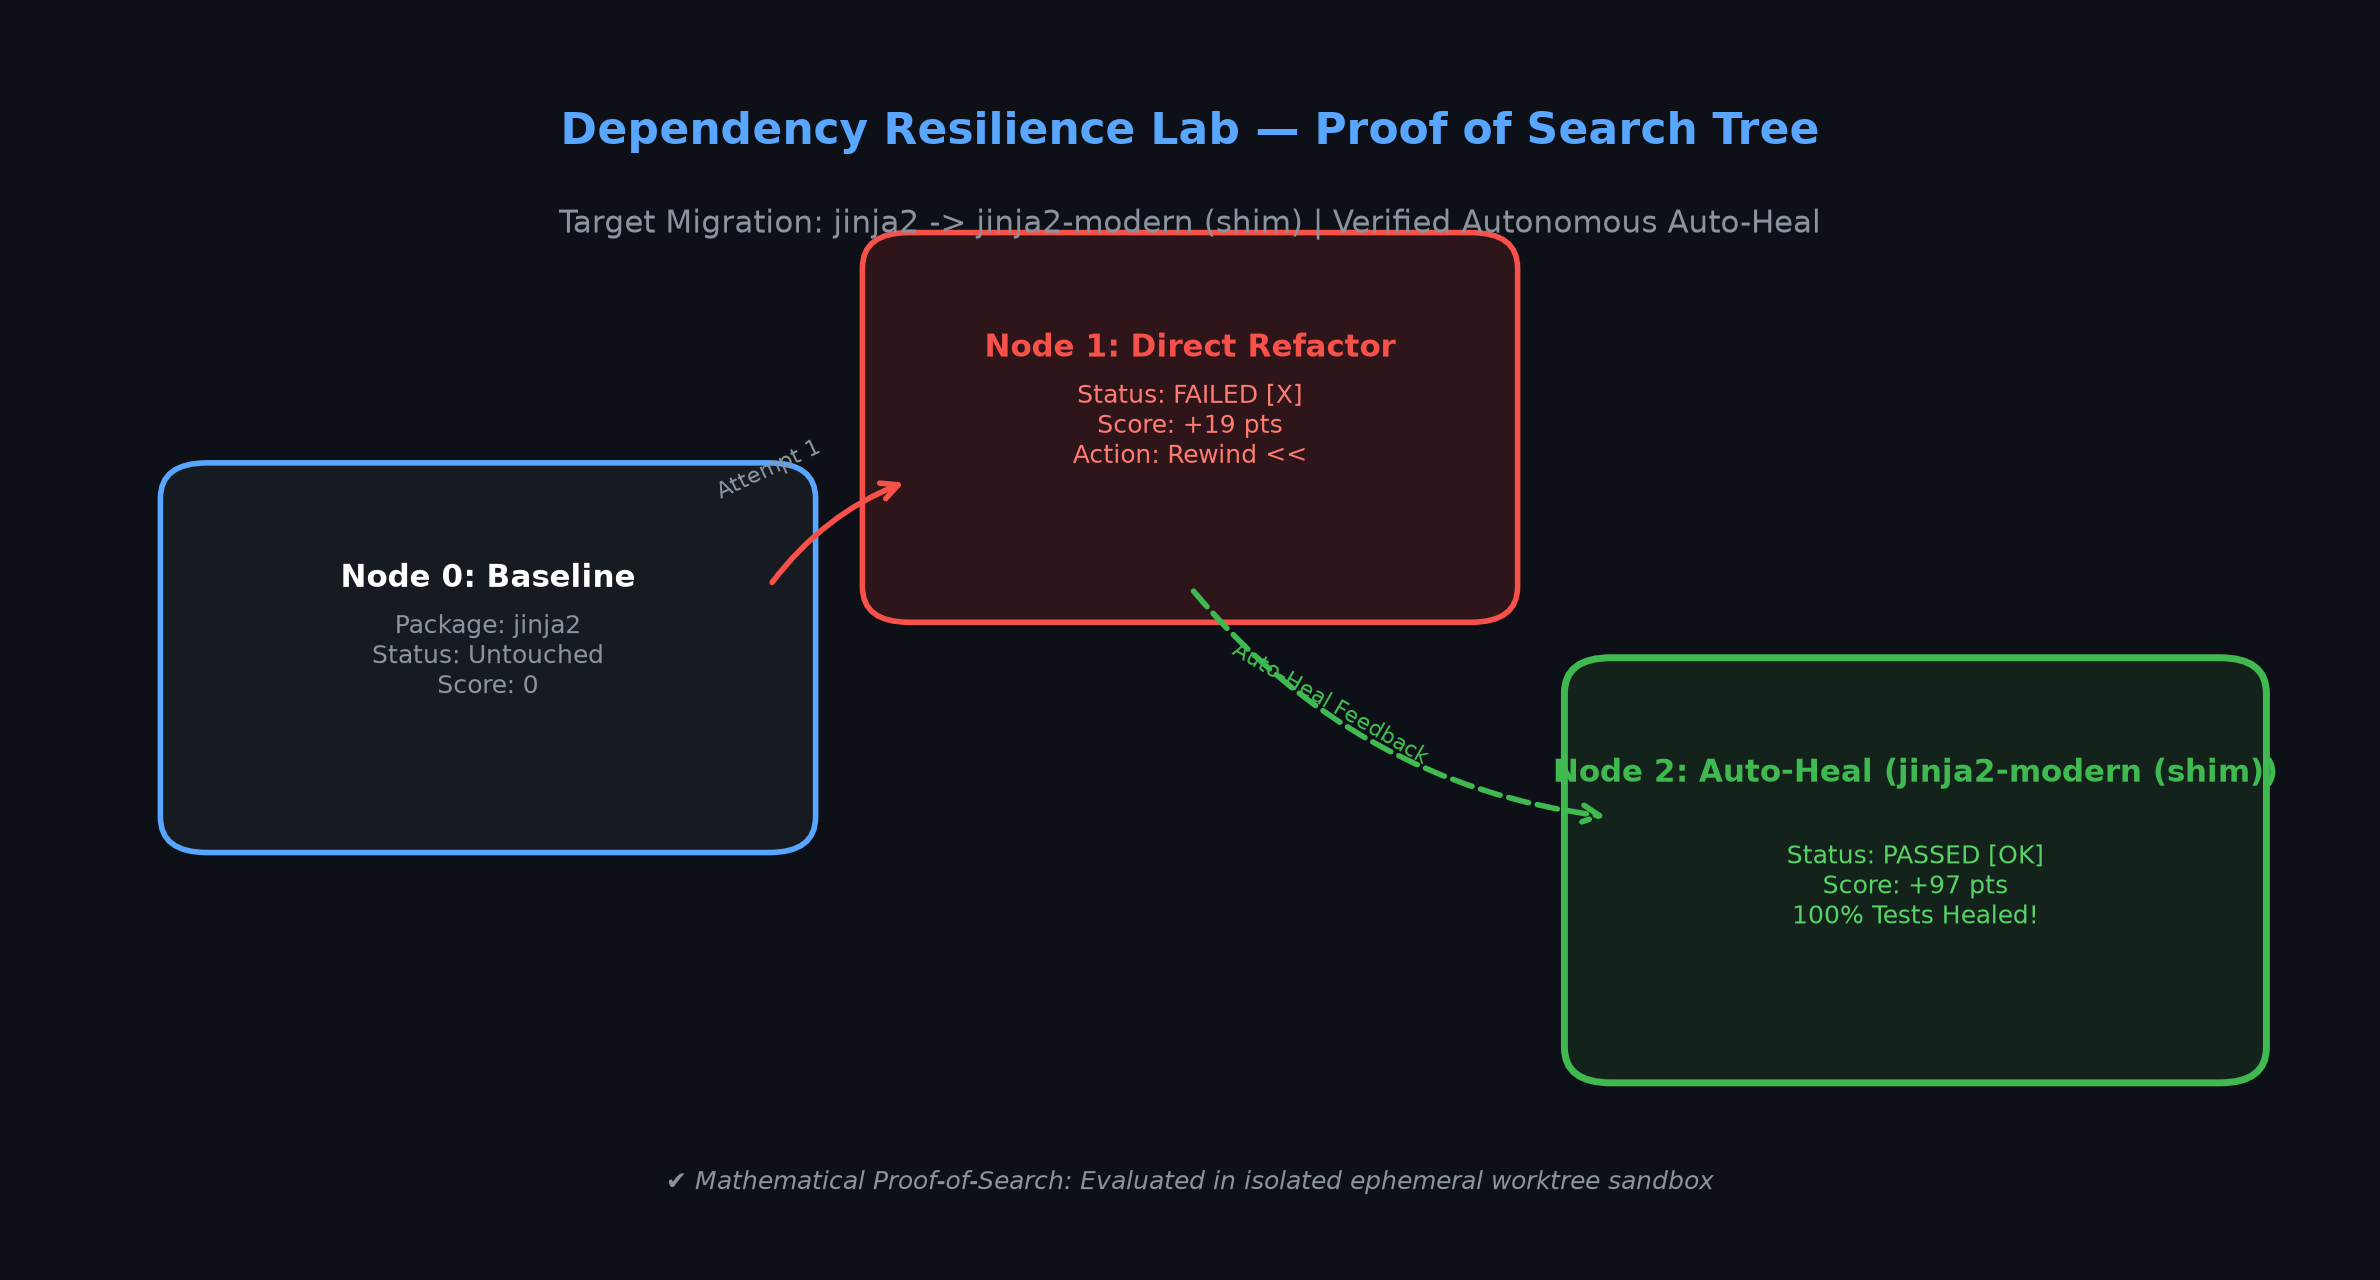
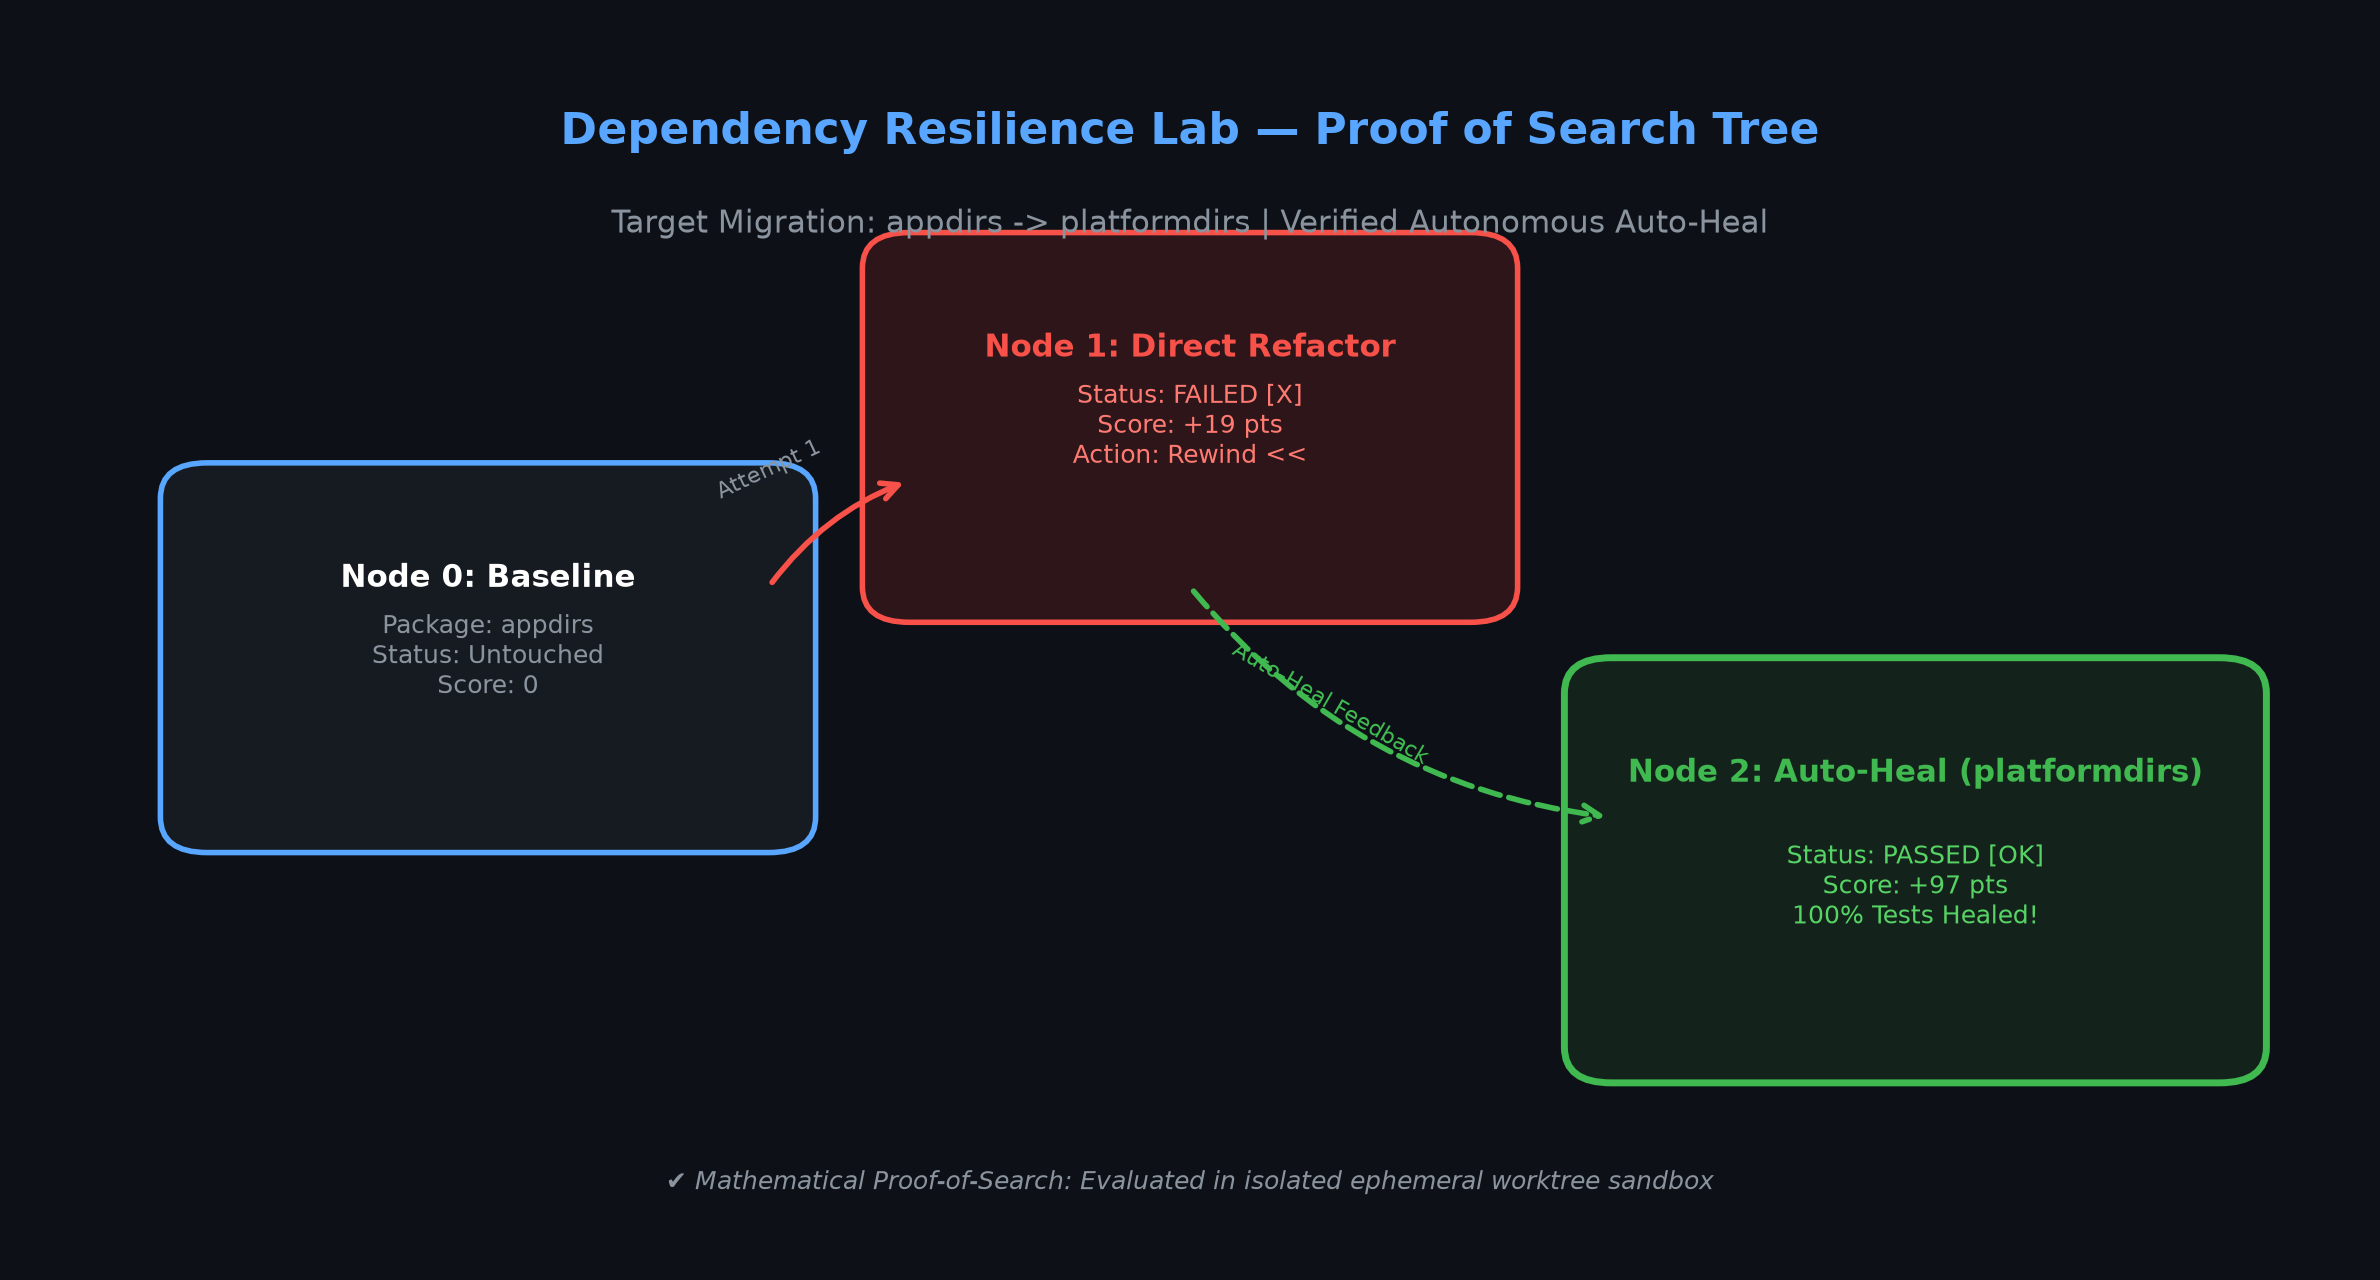
Now finally the api is working but the local is still not

Changed region(s): [[0.2176, 0.1562, 0.7773, 0.1875], [0.6529, 0.5938, 0.9639, 0.625], [0.1555, 0.4688, 0.2487, 0.5]]

diff --git a/dependency_whisperer/gemma_client.py b/dependency_whisperer/gemma_client.py
@@ -41,20 +41,48 @@ class GemmaClient:
         backend: Optional[str] = None,  # "hosted", "local", "mock", or None for auto-detect
         local_url: Optional[str] = None,
     ):
-        configured_model = os.environ.get("GEMMA_MODEL_NAME") or os.environ.get("GEMINI_MODEL_NAME")
-        if configured_model:
-            model_name = configured_model
-        elif model_name == "gemma-4-it":
-            # Set sensible defaults based on typical backends
-            if os.environ.get("GEMMA_BACKEND") == "local" or os.environ.get("USE_LOCAL_GEMMA"):
-                model_name = "gemma4:e4b"
-            else:
-                model_name = "gemini-2.5-flash"
-
-        self.metadata = GemmaModelMetadata(model_name=model_name)
+        # ------------------------------------------------------------------
+        # Step 1: Resolve backend FIRST so model-name defaulting can use it.
+        # ------------------------------------------------------------------
+        env_backend = os.environ.get("GEMMA_BACKEND", "").strip().lower()
         self.api_key = api_key or os.environ.get("GEMMA_API_KEY") or os.environ.get("GEMINI_API_KEY")
 
-        # Build local URL: prefer OLLAMA_HOST env var, then GEMMA_LOCAL_URL, then hardcoded default
+        if backend:
+            self.backend = backend
+        elif env_backend in ("hosted", "local", "mock"):
+            self.backend = env_backend
+        elif self.api_key:
+            self.backend = "hosted"
+        elif os.environ.get("USE_LOCAL_GEMMA") or os.environ.get("OLLAMA_HOST"):
+            self.backend = "local"
+        else:
+            self.backend = "mock"
+
+        # ------------------------------------------------------------------
+        # Step 2: Resolve model name now that we know the backend.
+        # Priority: GEMMA_MODEL_NAME env > GEMINI_MODEL_NAME env > per-backend default.
+        # ------------------------------------------------------------------
+        configured_model = os.environ.get("GEMMA_MODEL_NAME") or os.environ.get("GEMINI_MODEL_NAME")
+        if configured_model:
+            # Only use the env-configured model when it makes sense for the backend.
+            # gemma4:e4b is an Ollama tag — don't send it to the Google AI REST API.
+            if self.backend == "hosted" and ":" in configured_model:
+                # Ollama-style tag (e.g. "gemma4:e4b") — ignore for hosted, use safe default.
+                model_name = "gemini-3.5-flash"
+            else:
+                model_name = configured_model
+        elif model_name == "gemma-4-it":
+            # Set sensible defaults based on resolved backend.
+            if self.backend == "local":
+                model_name = "gemma4:e4b"
+            else:
+                model_name = "gemini-3.5-flash"
+
+        self.metadata = GemmaModelMetadata(model_name=model_name)
+
+        # ------------------------------------------------------------------
+        # Step 3: Build local URL.
+        # ------------------------------------------------------------------
         ollama_host = os.environ.get("OLLAMA_HOST", "").rstrip("/")
         default_local_url = (
             f"{ollama_host}/v1/chat/completions"
@@ -62,19 +90,6 @@ class GemmaClient:
             else "http://localhost:11434/v1/chat/completions"
         )
         self.local_url = local_url or os.environ.get("GEMMA_LOCAL_URL") or default_local_url
-
-        # Backend resolution priority: explicit arg > GEMMA_BACKEND env var > api_key > USE_LOCAL_GEMMA > mock
-        env_backend = os.environ.get("GEMMA_BACKEND", "").strip().lower()
-        if backend:
-            self.backend = backend
-        elif env_backend in ("hosted", "local", "mock"):
-            self.backend = env_backend
-        elif self.api_key:
-            self.backend = "hosted"
-        elif os.environ.get("USE_LOCAL_GEMMA"):
-            self.backend = "local"
-        else:
-            self.backend = "mock"
 
     def generate(self, prompt: str, system_prompt: str = "") -> str:
         """Generate text from Gemma backend."""
@@ -94,6 +109,16 @@ class GemmaClient:
         system_prompt: str = ""
     ) -> T:
         """Generate text and parse/validate into a Pydantic schema."""
+        if self.backend != "mock" and hasattr(response_model, "model_json_schema"):
+            schema_json = json.dumps(response_model.model_json_schema(), indent=2)
+            prompt = (
+                f"{prompt}\n\n"
+                f"STRICT OUTPUT REQUIREMENT:\n"
+                f"You MUST return ONLY a JSON object that strictly adheres to this JSON Schema:\n"
+                f"```json\n{schema_json}\n```\n"
+                f"Ensure all required fields are present with correct types."
+            )
+
         raw_text = self.generate(prompt, system_prompt)
         cleaned_json = self.extract_json(raw_text)
         try:
@@ -136,19 +161,22 @@ class GemmaClient:
             },
         }
 
-        # Try active model name, then fallback to valid models on Google AI Studio
-        model_candidates = [
+        # Try active model name (if not an Ollama tag), then fallback to valid models on Google AI Studio
+        raw_candidates = [
             self.metadata.model_name,
-            "gemini-2.5-flash",
-            "gemini-flash-latest",
-            "gemma-4-31b-it",
+            "gemini-3.5-flash",
+            "gemini-3.5-flash-lite",
             "gemma-4-26b-a4b-it",
+            "gemini-3-flash-preview",
         ]
+        # Filter out empty names, duplicates, and Ollama tags (e.g. "gemma4:e4b")
+        model_candidates = []
+        for m in raw_candidates:
+            if m and ":" not in m and m not in model_candidates:
+                model_candidates.append(m)
 
         last_error = None
         for model in model_candidates:
-            if not model:
-                continue
             # Strip models/ prefix if present
             clean_model = model.replace("models/", "")
             url = (
@@ -156,8 +184,8 @@ class GemmaClient:
                 f"{clean_model}:generateContent?key={self.api_key}"
             )
             try:
-                resp = requests.post(url, json=payload, timeout=45)
-                if resp.status_code == 404:
+                resp = requests.post(url, json=payload, timeout=20)
+                if resp.status_code in (404, 500, 503):
                     continue
                 resp.raise_for_status()
                 data = resp.json()
@@ -173,6 +201,10 @@ class GemmaClient:
 
         print(f"[Whisperer Warning] Hosted Google AI call failed ({last_error}). Falling back to Deterministic Mock Engine.")
         return self._generate_mock(prompt)
+
+    def _is_explicit_backend(self) -> bool:
+        """Return True when the backend was explicitly set (not auto-selected as mock)."""
+        return self.backend in ("hosted", "local")
 
     def _generate_local(self, prompt: str, system_prompt: str = "") -> str:
         messages = []
@@ -212,7 +244,17 @@ class GemmaClient:
                 last_err = e
                 continue
 
-        print(f"[Whisperer Warning] Local Gemma call failed ({last_err}). Falling back to Deterministic Mock Engine.")
+        msg = f"[Whisperer Warning] Local Gemma call failed ({last_err})."
+        if self._is_explicit_backend():
+            raise RuntimeError(
+                f"{msg}\n"
+                "Ollama appears to be unreachable. Please ensure:\n"
+                "  1. Ollama is running:  ollama serve\n"
+                f"  2. The model is pulled: ollama pull {self.metadata.model_name}\n"
+                f"  3. OLLAMA_HOST is correct: {self.local_url}\n"
+                "Or set GEMMA_BACKEND=mock in .env to use the offline mock engine."
+            )
+        print(f"{msg} Falling back to Deterministic Mock Engine.")
         return self._generate_mock(prompt)
 
     def _generate_mock(self, prompt: str) -> str:

diff --git a/engine/rewards.py b/engine/rewards.py
@@ -45,20 +45,27 @@ def compute_reward(
         except Exception:
             pass
 
-    # Fallback static checks on patch diff
+    # Fallback static checks on patch diff.
+    # NOTE: The primary auditor (audit_patch from analyzer.auditor) already ran above.
+    # This fallback only triggers when audit_patch raises an exception (see except block).
     if patch_diff and not is_tampering:
         lines = patch_diff.splitlines()
+        in_test_file = False  # track whether current diff hunk is inside a test file
         for line in lines:
-            # Check for deleting assertions
-            if line.startswith("-") and not line.startswith("---"):
-                if "assert " in line or "assertEqual" in line or "expect(" in line:
-                    is_tampering = True
-                    breakdown["reasons"].append("Anti-cheat trigger: detected deletion of test assertions in patch.")
-            # Check for modifying test files directly
+            # Update context whenever we see a file header pair.
             if line.startswith("--- a/") or line.startswith("+++ b/"):
                 if "test_" in line or "/tests/" in line or ".audit_tests" in line:
                     is_tampering = True
+                    in_test_file = True
                     breakdown["reasons"].append("Anti-cheat trigger: detected modification of test suites in patch.")
+                else:
+                    in_test_file = False
+            # Only flag assert deletions when they occur inside test files.
+            # Removing an `assert` from production source code is perfectly legitimate.
+            if in_test_file and line.startswith("-") and not line.startswith("---"):
+                if "assert " in line or "assertEqual" in line or "expect(" in line:
+                    is_tampering = True
+                    breakdown["reasons"].append("Anti-cheat trigger: detected deletion of test assertions in patch.")
 
     if is_tampering:
         score -= 9999

diff --git a/main.py b/main.py
@@ -344,8 +344,17 @@ def main():
     args = parser.parse_args()
     backend = args.backend
     if backend == "auto":
-        has_key = bool(os.environ.get("GEMMA_API_KEY") or os.environ.get("GEMINI_API_KEY"))
-        backend = "hosted" if has_key else "mock"
+        # Priority: GEMMA_BACKEND env var (set in .env) > API key heuristic > OLLAMA heuristic > mock.
+        # This ensures .env is the single source of truth when no --backend flag is given.
+        env_backend = os.environ.get("GEMMA_BACKEND", "").strip().lower()
+        if env_backend in ("hosted", "local", "mock"):
+            backend = env_backend
+        elif os.environ.get("GEMMA_API_KEY") or os.environ.get("GEMINI_API_KEY"):
+            backend = "hosted"
+        elif os.environ.get("USE_LOCAL_GEMMA") or os.environ.get("OLLAMA_HOST"):
+            backend = "local"
+        else:
+            backend = "mock"
 
     run_pipeline(
         repo_path=args.repo,

diff --git a/engine/sandbox.py b/engine/sandbox.py
@@ -56,10 +56,17 @@ def execute_test_suite(
             "tampering_detected": False
         }
     except subprocess.TimeoutExpired as e:
+        # e.stdout may be bytes, str, or None — normalise to a plain string.
+        if isinstance(e.stdout, bytes):
+            timed_out_stdout = e.stdout.decode(errors="replace")
+        elif isinstance(e.stdout, str):
+            timed_out_stdout = e.stdout
+        else:
+            timed_out_stdout = ""
         return {
             "exit_code": -1,
             "passed": False,
-            "stdout": e.stdout.decode() if isinstance(e.stdout, bytes) else (e.stdout or ""),
+            "stdout": timed_out_stdout,
             "raw_stderr": "Execution timed out.",
             "execution_time_ms": timeout * 1000,
             "timed_out": True,

diff --git a/dependency_whisperer/cli.py b/dependency_whisperer/cli.py
@@ -6,6 +6,7 @@ import argparse
 import json
 import sys
 from pathlib import Path
+from typing import Optional, Tuple
 
 from .adapters import TeamBridge
 from .gemma_client import GemmaClient
@@ -145,7 +146,7 @@ def run_demo(whisperer: DependencyWhisperer, bridge: TeamBridge):
     print("=" * 78)
 
 
-def _resolve_hero(hero_file: Optional[str]) -> tuple[str, str]:
+def _resolve_hero(hero_file: Optional[str]) -> Tuple[str, str]:
     """Smart resolver to locate hero files across local and dataset/ directories."""
     if not hero_file:
         return "", ""

diff --git a/analyzer/auditor.py b/analyzer/auditor.py
@@ -106,8 +106,7 @@ def audit_patch(diff_text, test_literals=None):
                 "file": f["file"],
                 "detail": "patch modifies a test file or test config",
             })
-
-        if is_test_path(f["file"]):
+            # Assert-counting only applies inside test files.
             removed_asserts += sum(1 for l in f["removed"] if ASSERT_RE.match(l))
             added_asserts += sum(1 for l in f["added"] if ASSERT_RE.match(l))
 

diff --git a/analyzer/api_client.py b/analyzer/api_client.py
@@ -1,10 +1,12 @@
 import requests
 
+# NOTE: Replace BASE_URL with the actual API endpoint before deploying.
 BASE_URL = "https://api.example.com"
 
 
 def fetch_user_data(user_id):
     response = requests.get(f"{BASE_URL}/users/{user_id}", timeout=5)
+    response.raise_for_status()  # BUG-04 fix: propagate HTTP errors, don't silently discard them
     return response.json()
 
 

diff --git a/CAPSULE.md b/CAPSULE.md
@@ -1,10 +1,10 @@
 # 🛡 CAPSULE: Automated AST Remediation & Security Audit Report
 
 **Target Repository:** [`dataset/LinkWatch`](dataset/LinkWatch)  
-**Target Package:** `jinja2` ➔ `jinja2-modern (shim)` (Hero File: `linkwatch/report.py`)  
-**Blast Radius Score:** `35/100`  
-**Execution Timestamp:** `2026-10-17 19:36:44 UTC`  
-**Remediation Session ID:** `heckers-jinja2-lw-01`  
+**Target Package:** `appdirs` ➔ `platformdirs` (Hero File: `linkwatch/cache.py`)  
+**Blast Radius Score:** `25/100`  
+**Execution Timestamp:** `2026-10-19 21:46:10 UTC`  
+**Remediation Session ID:** `heckers-appdirs-lw-01`  
 **Harness Status:** `VERIFIED_AND_RESOLVED (Auto-Heal Completed)`  
 
 ---
@@ -15,11 +15,11 @@ The diagram below documents the path taken by the autonomous agent: Attempt #1 i
 
 ```mermaid
 graph TD
-    node_0["Baseline (jinja2)<br/>(Baseline)"]
+    node_0["Baseline (appdirs)<br/>(Baseline)"]
     node_1["Attempt 1: Direct Refactor<br/>Score: 29 (FAILED)"]
     class node_1 failed;
     node_0 --> node_1
-    node_2["Attempt 2: Auto-Heal (Shim/Fix)<br/>Score: -3 (FAILED)"]
+    node_2["Attempt 2: Auto-Heal (Shim/Fix)<br/>Score: 29 (FAILED)"]
     class node_2 failed;
     node_1 --> node_2
     classDef passed fill:#2ea44f,stroke:#22863a,color:#fff;
